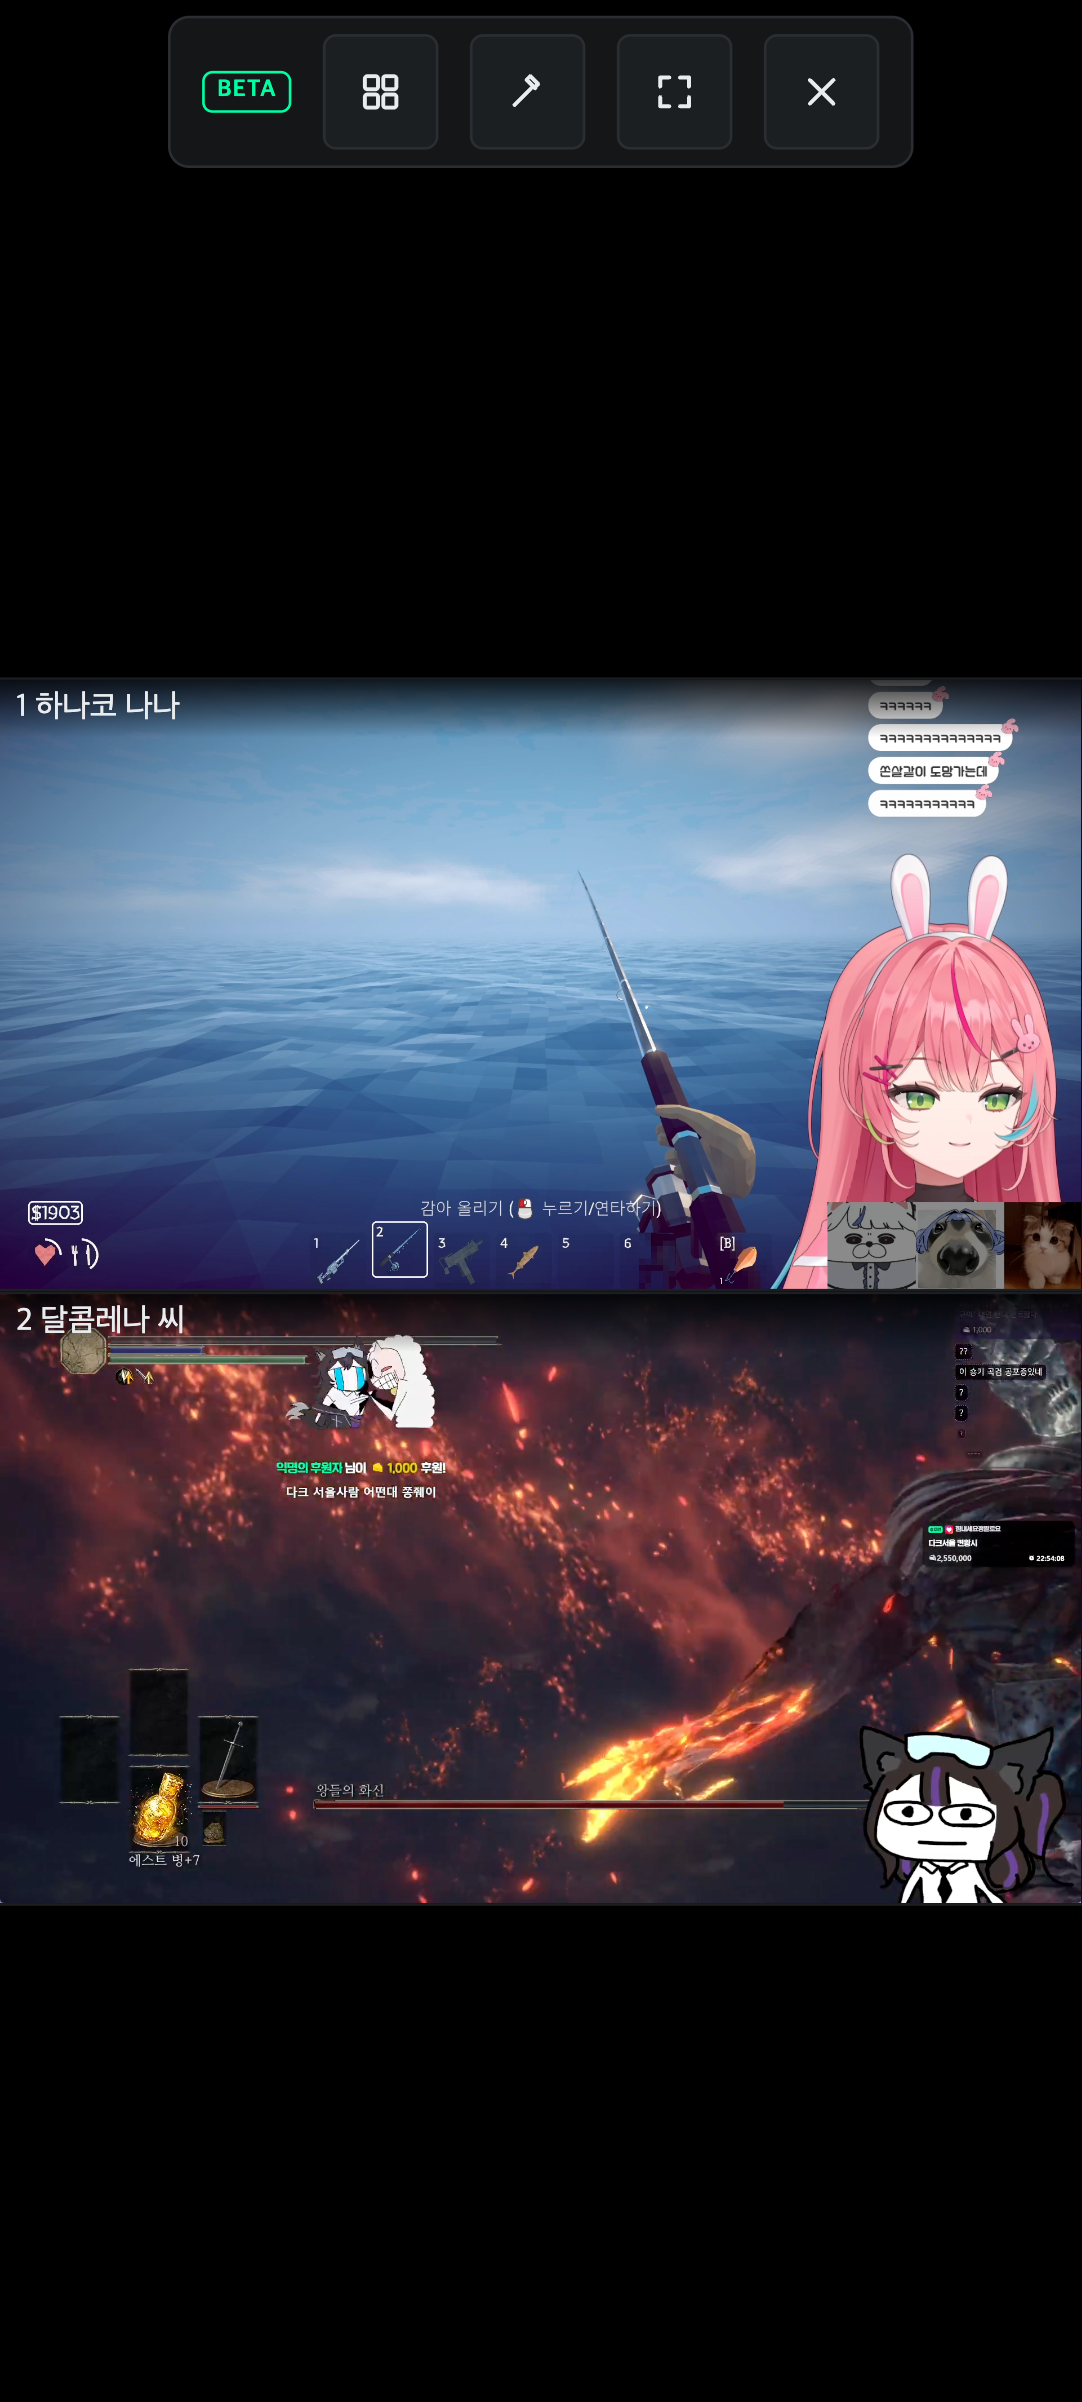
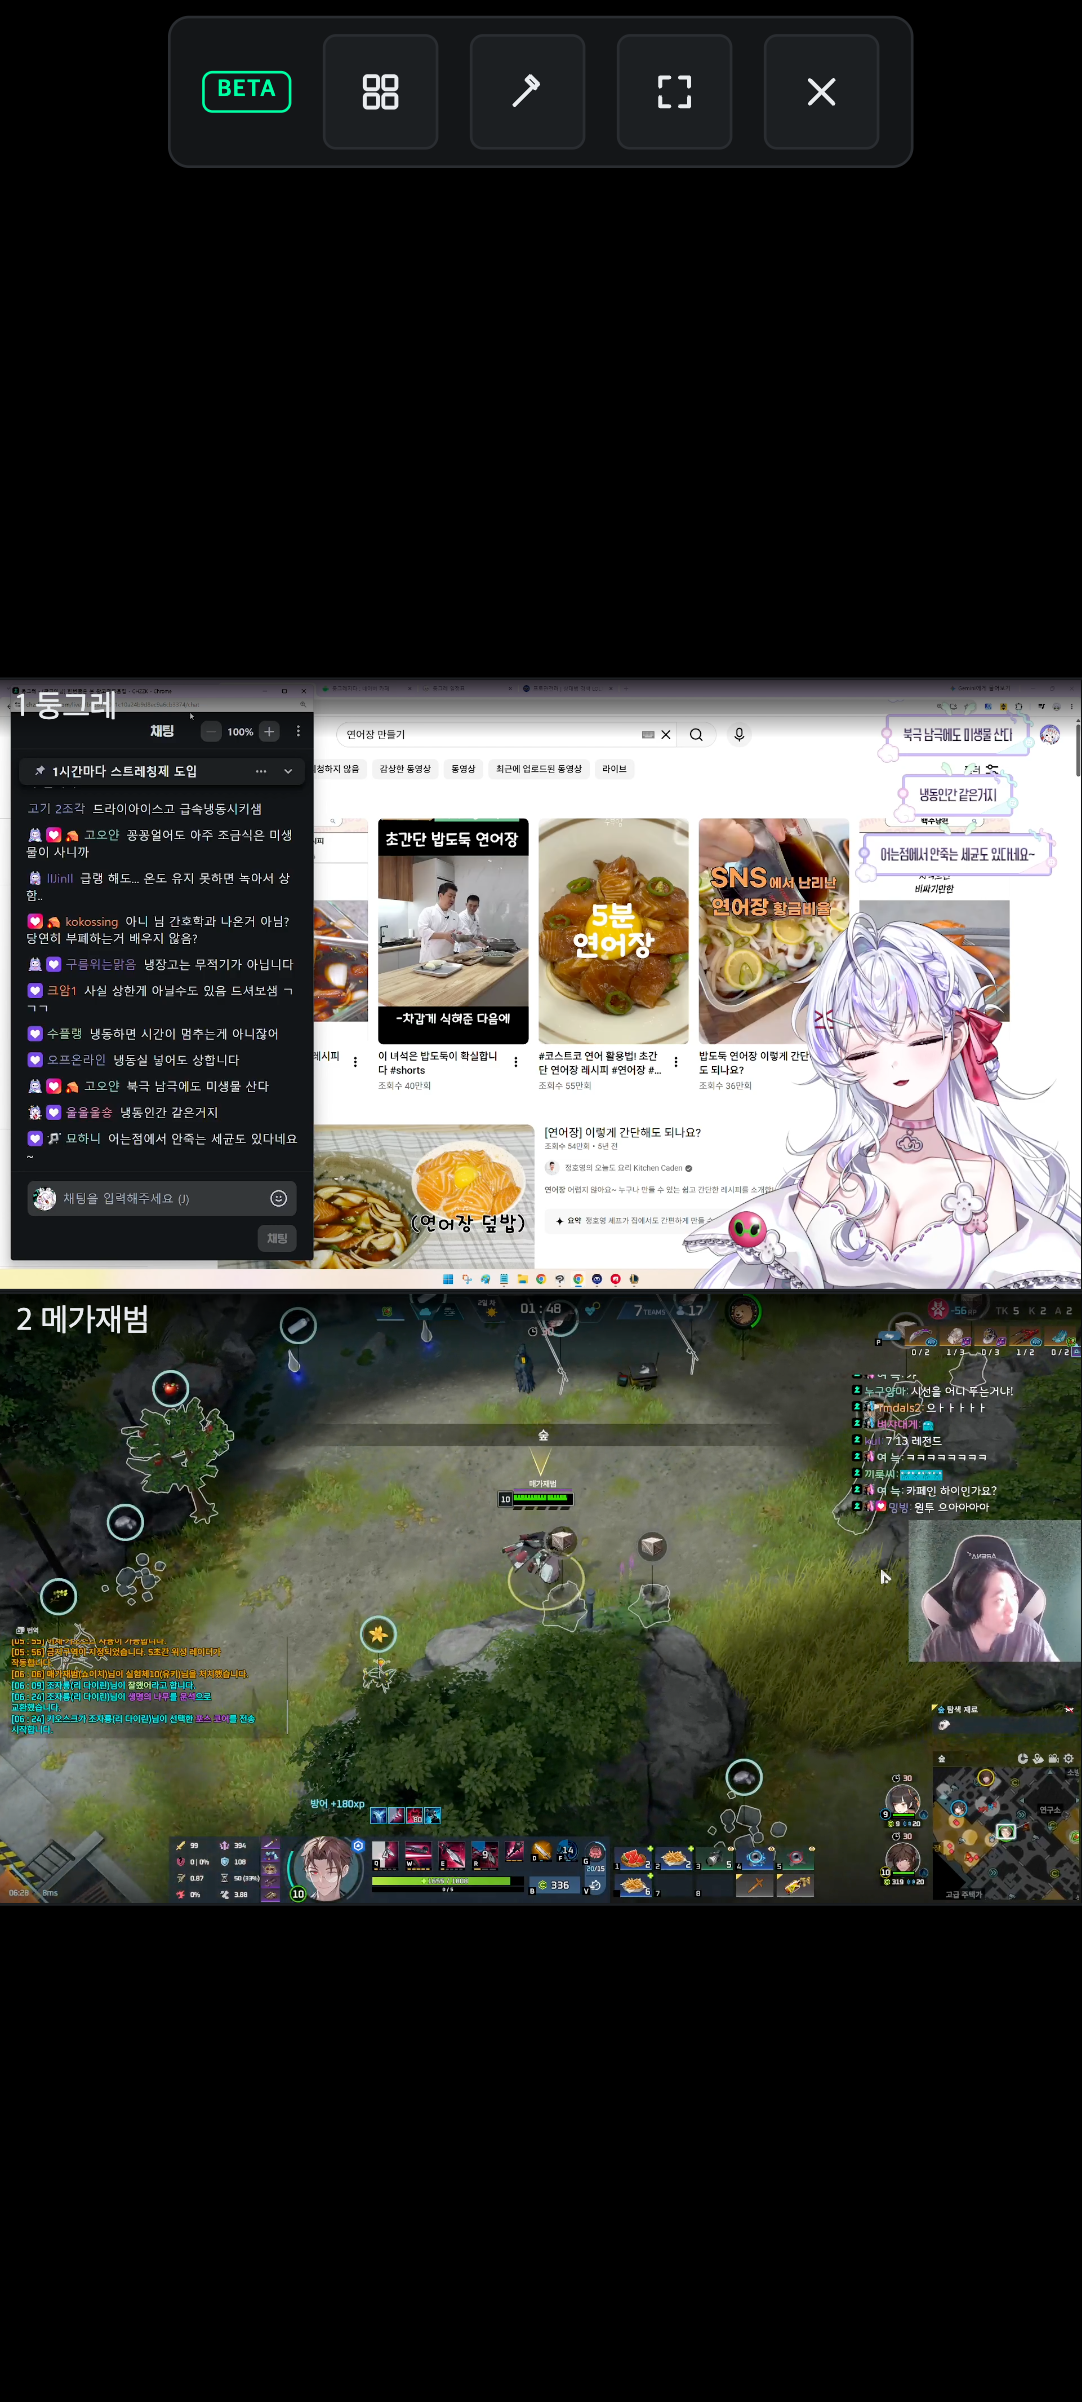
chore: Refresh demo screenshots
설정 재생 탭에 「방송 재개」 섹션이 생겨 기존 컷이 없는 화면을 보여 준다. 12장 전부
다시 찍었다 (`yarn demo:shots`, 실패 0건) — 일부만 교체하면 같은 표 안에 구 UI 와 신 UI 가
섞인다.

프레임 확인: 재생 탭에 「방송 재개」 토글이 **끄기**(기본값)로 렌더된 것과 안내 문구
두 줄을 눈으로 확인했다.

diff --git a/screenshots/README-snippet.md b/screenshots/README-snippet.md
@@ -1,15 +1,15 @@
 <!-- `yarn demo:shots` 로 생성된 목록. 실제 방송을 찍으므로 매 실행마다 채널이 다르다. -->
 <!-- 멀티뷰 시청 화면은 슬롯 컨텍스트 메뉴가 새어 나오면 저장 자체가 실패한다. -->
 
-| 기본 시청 화면 — 채팅 부가 요소 숨김 + 컨트롤바 버튼 삽입 (mobile-landscape · 윤가놈) | ![기본 시청 화면 — 채팅 부가 요소 숨김 + 컨트롤바 버튼 삽입](screenshots/demo-mobile-landscape-watch.png) |
-| 설정 패널 (FR-09.2) (mobile-landscape · 달콤레나 씨) | ![설정 패널 (FR-09.2)](screenshots/demo-mobile-landscape-settings.png) |
-| 멀티뷰 구성 시트 — 조작은 상단, 인기 방송 30개씩 추가 로드 (mobile-landscape · 서새봄냥 SEBOM) | ![멀티뷰 구성 시트 — 조작은 상단, 인기 방송 30개씩 추가 로드](screenshots/demo-mobile-landscape-multiview-config.png) |
-| 멀티뷰 시청 화면 (기기 상한에 맞춰 2·4분할) (mobile-landscape · 삼식) | ![멀티뷰 시청 화면 (기기 상한에 맞춰 2·4분할)](screenshots/demo-mobile-landscape-multiview.png) |
-| 기본 시청 화면 — 채팅 부가 요소 숨김 + 컨트롤바 버튼 삽입 (mobile-portrait · 윤가놈) | ![기본 시청 화면 — 채팅 부가 요소 숨김 + 컨트롤바 버튼 삽입](screenshots/demo-mobile-portrait-watch.png) |
-| 설정 패널 (FR-09.2) (mobile-portrait · 달콤레나 씨) | ![설정 패널 (FR-09.2)](screenshots/demo-mobile-portrait-settings.png) |
-| 멀티뷰 구성 시트 — 조작은 상단, 인기 방송 30개씩 추가 로드 (mobile-portrait · 서새봄냥 SEBOM) | ![멀티뷰 구성 시트 — 조작은 상단, 인기 방송 30개씩 추가 로드](screenshots/demo-mobile-portrait-multiview-config.png) |
-| 멀티뷰 시청 화면 (기기 상한에 맞춰 2·4분할) (mobile-portrait · 삼식) | ![멀티뷰 시청 화면 (기기 상한에 맞춰 2·4분할)](screenshots/demo-mobile-portrait-multiview.png) |
-| 기본 시청 화면 — 채팅 부가 요소 숨김 + 컨트롤바 버튼 삽입 (laptop13 · 윤가놈) | ![기본 시청 화면 — 채팅 부가 요소 숨김 + 컨트롤바 버튼 삽입](screenshots/demo-laptop13-watch.png) |
-| 설정 패널 (FR-09.2) (laptop13 · 달콤레나 씨) | ![설정 패널 (FR-09.2)](screenshots/demo-laptop13-settings.png) |
-| 멀티뷰 구성 시트 — 조작은 상단, 인기 방송 30개씩 추가 로드 (laptop13 · 서새봄냥 SEBOM) | ![멀티뷰 구성 시트 — 조작은 상단, 인기 방송 30개씩 추가 로드](screenshots/demo-laptop13-multiview-config.png) |
-| 멀티뷰 시청 화면 (기기 상한에 맞춰 2·4분할) (laptop13 · 삼식) | ![멀티뷰 시청 화면 (기기 상한에 맞춰 2·4분할)](screenshots/demo-laptop13-multiview.png) |
+| 기본 시청 화면 — 채팅 부가 요소 숨김 + 컨트롤바 버튼 삽입 (mobile-landscape · 둥그레) | ![기본 시청 화면 — 채팅 부가 요소 숨김 + 컨트롤바 버튼 삽입](screenshots/demo-mobile-landscape-watch.png) |
+| 설정 패널 (FR-09.2) (mobile-landscape · 메가재범) | ![설정 패널 (FR-09.2)](screenshots/demo-mobile-landscape-settings.png) |
+| 멀티뷰 구성 시트 — 조작은 상단, 인기 방송 30개씩 추가 로드 (mobile-landscape · 크랜) | ![멀티뷰 구성 시트 — 조작은 상단, 인기 방송 30개씩 추가 로드](screenshots/demo-mobile-landscape-multiview-config.png) |
+| 멀티뷰 시청 화면 (기기 상한에 맞춰 2·4분할) (mobile-landscape · 김나성) | ![멀티뷰 시청 화면 (기기 상한에 맞춰 2·4분할)](screenshots/demo-mobile-landscape-multiview.png) |
+| 기본 시청 화면 — 채팅 부가 요소 숨김 + 컨트롤바 버튼 삽입 (mobile-portrait · 둥그레) | ![기본 시청 화면 — 채팅 부가 요소 숨김 + 컨트롤바 버튼 삽입](screenshots/demo-mobile-portrait-watch.png) |
+| 설정 패널 (FR-09.2) (mobile-portrait · 메가재범) | ![설정 패널 (FR-09.2)](screenshots/demo-mobile-portrait-settings.png) |
+| 멀티뷰 구성 시트 — 조작은 상단, 인기 방송 30개씩 추가 로드 (mobile-portrait · 크랜) | ![멀티뷰 구성 시트 — 조작은 상단, 인기 방송 30개씩 추가 로드](screenshots/demo-mobile-portrait-multiview-config.png) |
+| 멀티뷰 시청 화면 (기기 상한에 맞춰 2·4분할) (mobile-portrait · 김나성) | ![멀티뷰 시청 화면 (기기 상한에 맞춰 2·4분할)](screenshots/demo-mobile-portrait-multiview.png) |
+| 기본 시청 화면 — 채팅 부가 요소 숨김 + 컨트롤바 버튼 삽입 (laptop13 · 둥그레) | ![기본 시청 화면 — 채팅 부가 요소 숨김 + 컨트롤바 버튼 삽입](screenshots/demo-laptop13-watch.png) |
+| 설정 패널 (FR-09.2) (laptop13 · 메가재범) | ![설정 패널 (FR-09.2)](screenshots/demo-laptop13-settings.png) |
+| 멀티뷰 구성 시트 — 조작은 상단, 인기 방송 30개씩 추가 로드 (laptop13 · 크랜) | ![멀티뷰 구성 시트 — 조작은 상단, 인기 방송 30개씩 추가 로드](screenshots/demo-laptop13-multiview-config.png) |
+| 멀티뷰 시청 화면 (기기 상한에 맞춰 2·4분할) (laptop13 · 김나성) | ![멀티뷰 시청 화면 (기기 상한에 맞춰 2·4분할)](screenshots/demo-laptop13-multiview.png) |
